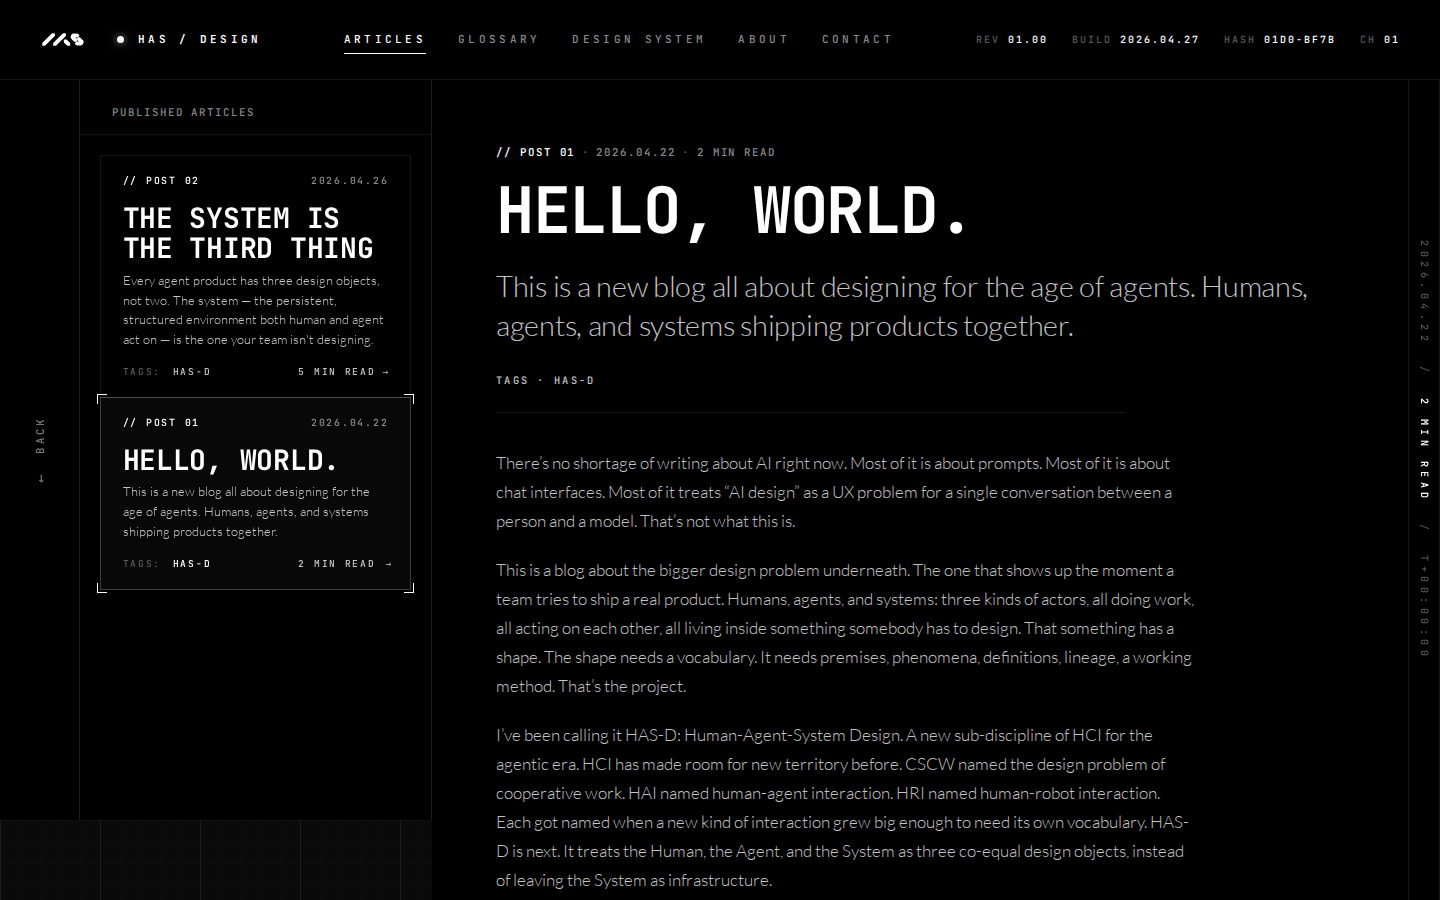
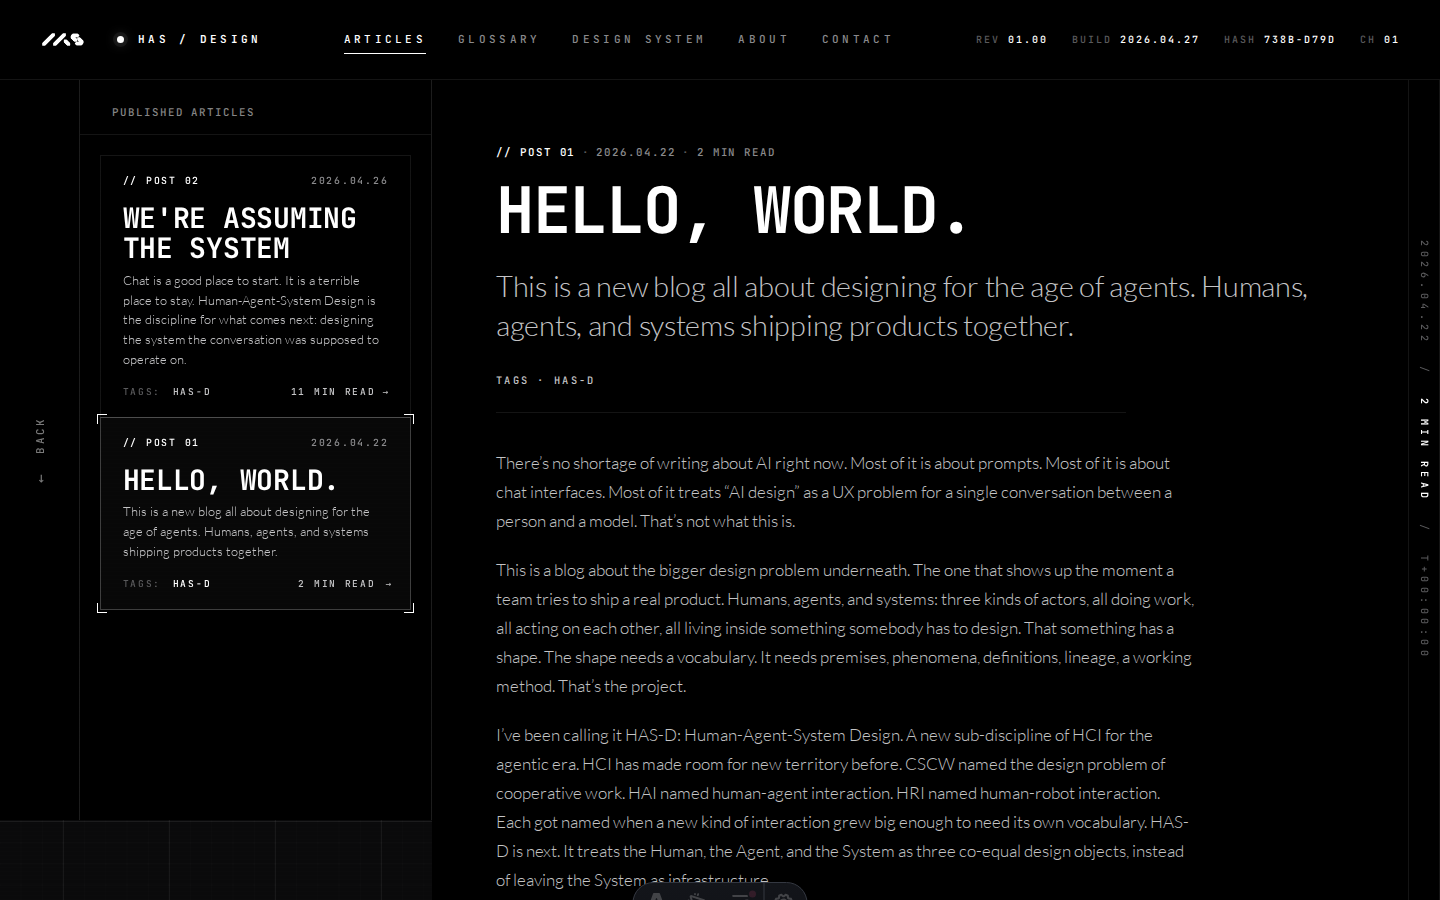
refactor(article): ILI-759 — swap anchor article body to v2 "We're Assuming the System"
Replaces the v1 body of POST 02 with the v2 rewrite. Headline updates
from "The System Is the Third Thing" to "We're Assuming the System".
Slot in the publishing plan (postNumber 2, date 2026-04-26) is unchanged.

What v2 delivers:
- Opening grounded in real production work (Docker agent builder pivot,
  Atlassian AI developer tools)
- HAS-Design positioned as a child discipline of HCI before being applied
- Actor-Network Theory attribution restored with Latour citation
- Triad earned: Human / Agent / System with proper definitions
- "Five signs you are stuck in the chat trap" diagnostic added
- Worked example: chat window → model+agent+skills → configured toolset
- Spider-web metaphor for the system layer
- "Where to start" closer with PDF worksheet placeholder

Tests + screenshots updated to expect the new headline.

Changed region(s): [[0.0625, 0.2178, 0.2812, 0.6533], [0.4375, 0.9644, 0.5625, 1.0], [0.2188, 0.6222, 0.25, 0.6533]]

diff --git a/tests/ili-755-verify.spec.ts b/tests/ili-755-verify.spec.ts
@@ -4,14 +4,14 @@ const URL = `http://localhost:${process.env.PORT || 4322}/`;
 const NO_ANIM = `*, *::before, *::after { animation-duration: 0s !important; animation-delay: 0s !important; transition-duration: 0s !important; }`;
 
 test.describe('ILI-755 — post numbering is publish-order, not display-position', () => {
-  test('homepage labels Hello, world. as POST 01 and Third Thing as POST 02', async ({ page }) => {
+  test('homepage labels Hello, world. as POST 01 and Assuming the System as POST 02', async ({ page }) => {
     await page.setViewportSize({ width: 1440, height: 900 });
     await page.goto(URL);
     await page.addStyleTag({ content: NO_ANIM });
     await page.waitForSelector('.post-card');
 
     const newest = page.locator('.post-card').first();
-    await expect(newest.locator('.post-card-title')).toHaveText('The System Is the Third Thing');
+    await expect(newest.locator('.post-card-title')).toHaveText("We're Assuming the System");
     await expect(newest.locator('.post-card-id')).toHaveText('// POST 02');
 
     const oldest = page.locator('.post-card').nth(1);
@@ -42,7 +42,7 @@ test.describe('ILI-755 — post numbering is publish-order, not display-position
     });
   });
 
-  test('opening The System Is the Third Thing shows POST 02', async ({ page }) => {
+  test('opening Were Assuming the System shows POST 02', async ({ page }) => {
     await page.setViewportSize({ width: 1440, height: 900 });
     await page.goto(URL);
     await page.addStyleTag({ content: NO_ANIM });
@@ -52,10 +52,10 @@ test.describe('ILI-755 — post numbering is publish-order, not display-position
     await page.waitForTimeout(300);
     await expect(page.locator('#stage.open')).toBeVisible();
     await expect(page.locator('#art-head-id')).toHaveText('// POST 02');
-    await expect(page.locator('#art-h1')).toHaveText('The System Is the Third Thing');
+    await expect(page.locator('#art-h1')).toHaveText("We're Assuming the System");
 
     await page.screenshot({
-      path: 'verification-screenshots/ili-755-third-thing-open.png',
+      path: 'verification-screenshots/ili-755-assuming-system-open.png',
       fullPage: false,
     });
   });

diff --git a/src/content/articles/the-system-is-the-third-thing.md b/src/content/articles/the-system-is-the-third-thing.md
@@ -1,88 +1,152 @@
 ---
-title: "The System Is the Third Thing"
+title: "We're Assuming the System"
 date: 2026-04-26
-description: "Every agent product has three design objects, not two. The system is the persistent, structured environment both human and agent act on. It's the one your team isn't designing."
+description: "Chat is a good place to start. It is a terrible place to stay. Human-Agent-System Design is the discipline for what comes next: designing the system the conversation was supposed to operate on."
 tags: ["HAS-D"]
 draft: false
 postNumber: 2
 ---
 
-There are three objects in every agent product. Most designers see two.
+At Docker, Javier Alfonso and I built the first version of an agent builder for developers. We shipped it as a chat app. We scrapped it.
 
-The two you see are the human and the agent. The human asks for something. The agent does something. You design the conversation between them.
+People did not want a chat app. They wanted agents that lived inside their Docker workflows. Generated, configured, native to the technology they already used. Chat was a familiar surface. Familiar was not the same as useful.
 
-The third object is the system. People hear "system" and think backend, or infrastructure. The system is the persistent, structured environment both the human and the agent act on. The tickets, the files, the state machines, the shared documents, the event logs. The stuff that still exists after both parties walk away from the session.
+So we pivoted. The next version was a tool for generating and configuring agents that lived where the work happened. From there, agentic inroads into Docker Desktop. Security-focused AI tooling. The pattern repeated. Chat was the demo. The system was the product.
 
-I've spent fifteen years building that layer. CI/CD. Observability. Containers. Design systems. All of it system work. All of it the third object. Making it durable. Making it legible. Making it behave. The current agent-design conversation treats that layer as substrate. Backend's job. "Just has to be there."
+I now am a lead designer on AI developer tools at Atlassian. My team is building agents for code review, planning, ticketing, and the surrounding work. We call it "left and right of code-gen." Meaningful automation shipped to enterprise customers globally. Same pattern. The chat is where the demo runs. The system is where the value compounds.
 
-It's killing your product.
+Chat is a good place to start. It is a terrible place to stay.
 
-## Why the system hides
+This article is about what comes after, and why I want to pitch an emerging child of the parent HCI. I am calling it "Human Agent System Design." Let's get into it!
 
-The system is everything durable. Every record the agent writes. Every state change it commits. Every artifact that will still exist at the end of the month. It holds the history. It holds the rules.
+## The chat trap
 
-It hides because it doesn't have a surface. You can't screenshot it. You can't hand a PM a Figma file of it. It shows up in your product the way gravity shows up in a room. You don't see it. Everything falls the way it says.
+Most agent products are stuck in the same place. A team ships an AI feature as a chat UI. The metrics look fine. Then the product stops growing, or never finds its audience, or feature after feature gets bolted onto the same surface and nothing compounds.
 
-The moment you try to draw it, you realize it has all the properties of a design object. It has boundaries. It has rules. It has interfaces. It has versions. Someone decided those things. Almost always an engineer working a local problem. You get architecture by accident.
+The diagnosis is the same nearly every time. The team designed the conversation. They did not design the system the conversation was supposed to operate on.
 
-## Why unnamed design objects break
+Designers are rendering the eighth version of the same chat UI. PMs are reviewing roadmaps that end at "improve the chat experience." Engineers are stitching together model calls and praying the prompt holds. Nobody is designing the system the agent is supposed to live inside.
 
-Here's what's actually broken: when you design an interface without naming what the interface is for, you get bad interfaces. Same thing happens with systems. Unnamed systems get designed by accident.
+The work to escape this is not interface work. It is system work. And the discipline for system work, when humans and agents both act on the system, has a name most teams have not heard.
 
-The unreliability people attribute to AI is almost entirely system-layer failure. The agent wrote half a record. The agent changed a field and the audit log lost track of who did it. The agent chained five actions and the third one failed and nobody knows what to roll back. The model is fine. The system is underspecified.
+Human-Agent-System Design.
 
-You can polish the interface until it gleams. The product will still feel broken. Because the thing that's broken is below the interface, in the layer nobody on the team thinks is their job.
+## What the sh\*t is Human-Agent-System Design?
+
+[Human-Computer Interaction](https://en.wikipedia.org/wiki/Human%E2%80%93computer_interaction) was built on a single foundational assumption. There is one intentional actor in the product, and that actor is human. The computer is a tool. It responds. It executes. It does not decide.
+
+That assumption held for forty years. It is no longer the best descriptor or set of principles for what's happening today. HCI is critical but it needs a child.
+
+If Human-Computer Interaction is the first parent, then the second parent is [Actor-Network Theory](https://en.wikipedia.org/wiki/Actor%E2%80%93network_theory):
+
+> Actor-Network Theory (ANT) is **a theoretical and methodological framework developed by Bruno Latour, Michel Callon, and John Law that treats both human and non-human entities (objects, technology, ideas) as equally important "actors" or "actants" in shaping social reality**. It maps how these actors connect in networks, proposing that social order is a continuous, precarious accomplishment formed by the heterogeneous networks they form.
+>
+> [www.sciencedirect.com](http://www.sciencedirect.com)
+
+Human-Agent-System Design takes the core of Human-Computer Interaction and merges Latour's work on Actor-Network Theory to create this gestalt third thing.
+
+An agent decides. It initiates work. It chains actions. It reasons across context. It coordinates with other agents and other systems while no human is watching. The "one intentional actor" assumption breaks. Every method built on top of it bends or snaps when applied to agentic products. Personas do not describe agents. Journey maps do not describe orchestrations. Empathy maps do not apply to entities that have no psychology.
+
+Agents are tier-1 citizens on the internet now. The design conversation has not caught up.
+
+HCI is essential at the human edge of any agent product. HCI is incomplete in this new case of agents acting upon systems orchestrated by humans. It cannot describe the agent layer. It cannot describe the system layer. It cannot describe the seams between all three. And when we try to force HCI principles and frameworks on agents, the result is a mess.
+
+Human-Agent-System Design is the child discipline that completes it. Same parent. New territory. HAS-Design treats three actor types as co-equal design objects. A proper Triad.
+
+**Humans** are designed with HCI methods. Personas, jobs-to-be-done, mental models, trust calibration. The human edge is HCI's home turf. HAS-Design inherits those methods rather than replacing them.
+
+**Agents** are designed with specifications. Capability envelope, action grammar, archetype, constraints. Agents have defined behavior. They have capability without psychology. They require their own vocabulary and their own artifacts.
+
+**Systems** are designed with primitives. State machines, event logs, action authority models, identity persistence, audit surfaces, rollback semantics. The system is the persistent, structured environment humans and agents both act on. Not the backend. Not the infrastructure. The durable design object the framework's name commits to.
+
+The output of HAS-Design practice is agentic orchestration: what happens when three actor types coordinate through designed interactions to produce outcomes none of them could produce alone.
+
+## Back to Blueprints, not Maps
+
+The primary artifact is the service blueprint. A blueprint can represent the human frontstage, the agent backstage, the support systems, and the handoffs between them. A journey map cannot. A journey map traces a primary human and its counterparts and human-helpers through a system. An orchestration is not any of that.
+
+**This is the discipline. This is what you reach for when chat is no longer the answer.**
 
 ## The triad
 
-HAS-D, Human-Agent-System Design, treats all three as co-equal design objects.
+Three actors. Three design objects. Three places the work has to land. Miss one and the product falls apart at that seam.
 
-**Human.** The person who initiates, reviews, governs. Designed the way humans have always been designed for: personas, jobs-to-be-done, cognitive load, trust calibration. Nothing new here. [HCI](https://en.wikipedia.org/wiki/Human%E2%80%93computer_interaction) works.
+### The Human.
 
-**Agent.** The autonomous or semi-autonomous actor. Designed through specifications. You don't empathy-map an agent. You define its capabilities, its constraints, its action grammar. What it can do. What it's forbidden to do. What it has to prove before it's allowed to try.
+The person initiating the work, configuring the agent, governing the outcome. You initiate. You configure. You govern. You review. You intervene when the agent goes off course. You steer. Designer, PM, developer. The role varies. The position does not. You are the intentional actor at the human edge, and the judgment that cannot be delegated.
 
-**System.** The persistent, structured, shared environment the other two act on. Designed through state machines, event logs, action authority models, identity and persistence primitives, rollback semantics. Every one of those is a design deliverable. You own them.
+### The Agent.
 
-Treating human and non-human entities as co-equal actors isn't new. [Actor-network theory](https://en.wikipedia.org/wiki/Actor%E2%80%93network_theory) has been making that move since [Latour](https://global.oup.com/academic/product/reassembling-the-social-9780199256051), in the eighties. HAS-D adds a third term. The System as a design object. A thing you specify, version, and ship. Designing it is a discipline of its own.
+A specified actor. The agent has a capability envelope: what it can do, what it cannot do, what it has to verify before it acts. The agent has an action grammar: the explicit list of moves available to it. Some agents are configured for general chat. Some for code generation. Some for design review. Some for planning, ticketing, research, or QA. Within those constraints, an agent is whatever you specified.
 
-These three sit beside each other. Equal terrain. The human acts on the system directly. The agent acts on the system directly. The human acts on the agent. Every edge is a design surface. Miss one and the product falls apart at that seam.
+The human's job is to specify the agent for the work in front of it. A code-generation agent assigned to produce UI inside a screen design tool is set up to fail. The model is fine. The specification was wrong. A user-experience agent is specified differently. It pulls from interaction design. It applies research through heuristic evaluation. Same model underneath. Different agent because the human specified it differently.
 
-## You already did this with design systems
+### The System.
 
-If you've worked on a design system, you've already built a HAS-D triad. You just didn't call it that.
+The persistent, structured, shared environment the other two act on. Not the IDE. Not Conductor. Not Emdash. Those are consoles you orchestrate the system from. The system itself is the skills, the MCP connections, the APIs, the repositories, the records that exist when no one is in session. The test is simple. If you selected it, configured it, or wired it in, it is part of your system. If it shipped in the console by default and you never touched it, it is part of the console. You design the system layer. You version it. You change it deliberately.
 
-The humans are the designers and engineers who consume the system. Personas, workflows, adoption problems.
+Designed deliberately, the system carries the product. Designed by accident, the system carries the failure. There is no third option.
 
-The agents are the build tools. [Style Dictionary](https://styledictionary.com/) transforming tokens into code. Linters enforcing component usage. CI pipelines catching drift. They execute work without a person watching each step.
+## What you build with it
 
-The system is the token definitions, the component library, the canonical repository. Persistent. Structured. Shared.
+A line Javier and I landed on:
 
-When it's underspecified, the whole thing breaks. Tokens with no naming rules. Components with no versioning. No canonical source. The tools misfire. The designers fight the build. The consuming team gives up and builds their own local copy.
+> Agents live in yaml, think in JSON, and go to work in MCPs.
 
-Every hard problem in agentic products right now is a problem design systems already solved, in miniature form. Canonical identity. Referential stability. Versioning. Authority. Drift detection.
+The yaml is the agent's specification. The JSON is the structured exchange the model runs on. The MCPs are the systems the agents reach into to do their work. That is the geography of a basic agent product.
 
-The tools for designing that layer already exist. They were just never called system design.
+The system you build inside that geography is a spider-web. Each node is something you connected on purpose: a skill you wrote or installed, an MCP connection you authorized, an API you designed or wired in, a service the agent can reach. The web is bounded. You can name every node. You can audit every connection. You can swap a node without rebuilding the whole thing.
 
-## What HAS-D is for
+The spider-web metaphor is the picture. The deeper work follows: what each node is allowed to do, who authored which change, what state survives a session, what gets rolled back when something breaks. The framework supplies the vocabulary for those answers.
 
-So what does this mean? HAS-D gives you the vocabulary to design all three objects at once. [HCI](https://en.wikipedia.org/wiki/Human%E2%80%93computer_interaction) still runs the human edge. The interface work happening across the agent-UX conversation runs the human-agent edge. HAS-D runs the system edge, and the seams between all three.
+In practice, the web takes shape in stages. Most designers and PMs will recognize at least one of these. Developers live here already.
 
-You reach for it when your agent product feels broken at the foundation. The ground everything else is standing on.
+**A model and a chat window.** Useful. Most readers are here today. You write something. The model writes back. The model is good. The system is the Internet, assumed and unreviewed. There is nothing for the framework to design at this layer. Stay here for what it is good for: drafts, research, brainstorming. Do not build a product on it.
+
+**A model, an agent, and a set of skills.** Open Cursor. Add an `AGENTS.md` file. The agent has a specification. Add skills. The agent has a library of capabilities. The model is still the model. The system is small. It is also visible. Three pieces sitting next to each other: model, agent definition, skills. The triad is small. It is real. The framework starts here.
+
+**A configured toolset for actual work.** This is where the framework earns its keep. At Atlassian my team is building agents that live inside the work. Code review agents that read the diff. Planning agents that read the roadmap. Jira agents that read and write the tickets. Each agent has a yaml specification. Each is wired to a system: MCP connections to the code host, to Jira, to Confluence, to Sentry, to internal tooling. Skills sit on top. Agent instructions sit on top of those. Agents run in parallel. The system holds state across sessions. Nothing falls on the floor between conversations because there is a designed surface holding the work.
+
+This is not a chat product with extra features. It is a system product with multiple interfaces, one of which happens to be conversational.
+
+That is the difference HAS-Design names.
+
+## Five signs you are stuck in the chat trap
+
+If you are shipping or trying to ship an agent product and it feels stuck, check it against these. Each one is a system-layer failure. The model is not the problem.
+
+### The product is a chat window with ambition.
+
+A human, a model, a text box, and a roadmap that depends on the conversation outlasting the conversation. State dies when the session ends. Decisions made in chat never wrote to a record. The product is a transcript with a logo on it.
+
+### Wrong agent for the job.
+
+The system handed the agent work it was not specified for. A general-chat agent assigned to write production code. A code-generation agent assigned to produce UI inside a screen design tool. The model is fine. The agent specification does not match the work. That is a system-layer mismatch, not a model failure.
+
+### System defined as the console.
+
+The team says the system is Cursor, or Conductor, or the IDE. Those are consoles. The system is what the consoles reach into: the skills, the MCPs, the repositories, the services. If nobody on the team can list those nodes, the system has not been designed. It has been assumed.
+
+### Architecture by accident.
+
+Skills installed by default and never reviewed. MCP connections inherited from a tutorial. Permissions granted once and forgotten. Authentications still live for services no one is using. The web exists. Nobody drew it. The system is doing work nobody specified.
+
+### State that dies with the session.
+
+Work the agent did that nobody can find tomorrow. Audit gaps. Actions with no rollback. Things falling on the floor between sessions. The system is not holding state because there is no system holding state.
+
+If you recognized your product in any of these, the work is at the system layer. Not the prompt. Not the interface. The system.
 
 ## Where to start
 
-Draw your triad. Write down the human touchpoints. Write down the agent's action grammar. Then write down the system they both act on. All of it. The state machines. The event logs. The records. The rules. The audit surface. The rollback semantics. Everything that outlasts a session.
+You will not design a complete system on the first pass. Nobody does. The work starts with one project. One human. One agent. One slice of the system you can name today.
 
-Most teams discover two things when they do this.
+Pick a project you are about to start. Open the worksheet. Write down the human in the seat. Write down the agent and what you have specified for it to do. Write down the system: every skill, every MCP connection, every authentication, every service the agent will reach into. Draw the web.
 
-First: the system is underspecified.
+Look at what you wrote down. Most teams discover two things. The system was underspecified. The person who should have been designing it was nobody.
 
-Second: the person who should be designing it is nobody.
+If that sounds like you, the worksheet is where you start.
 
-HAS-D says that person is you.
-
-## References
-
-Latour, Bruno. *Reassembling the Social: An Introduction to Actor-Network Theory.* Oxford University Press, 2005. [https://global.oup.com/academic/product/reassembling-the-social-9780199256051](https://global.oup.com/academic/product/reassembling-the-social-9780199256051)
-
-**Further reading:** [Style Dictionary](https://styledictionary.com/) · [Human–computer interaction](https://en.wikipedia.org/wiki/Human%E2%80%93computer_interaction) · [Actor-network theory](https://en.wikipedia.org/wiki/Actor%E2%80%93network_theory)
+> **[PLACEHOLDER — PDF worksheet]**
+>
+> Downloadable PDF worksheet to help readers plan their first Human Agent System framework and project. Maps the human, the agent, and the system for one concrete project the reader is starting on. To be designed and attached.
